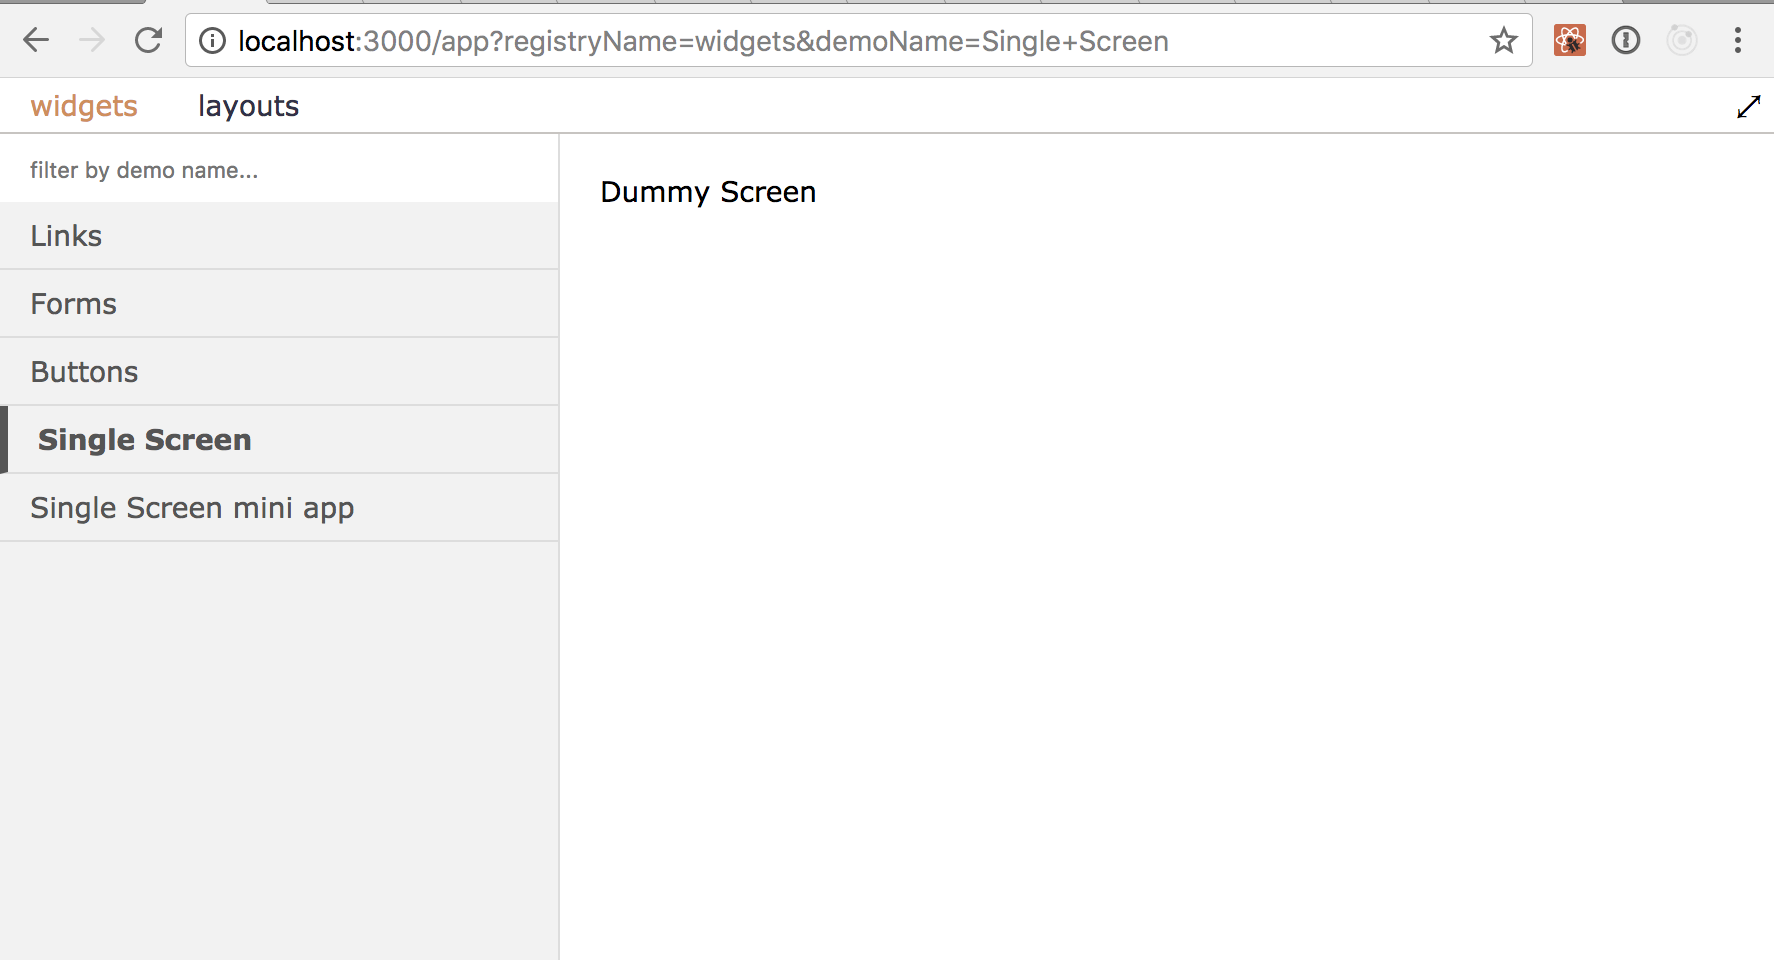
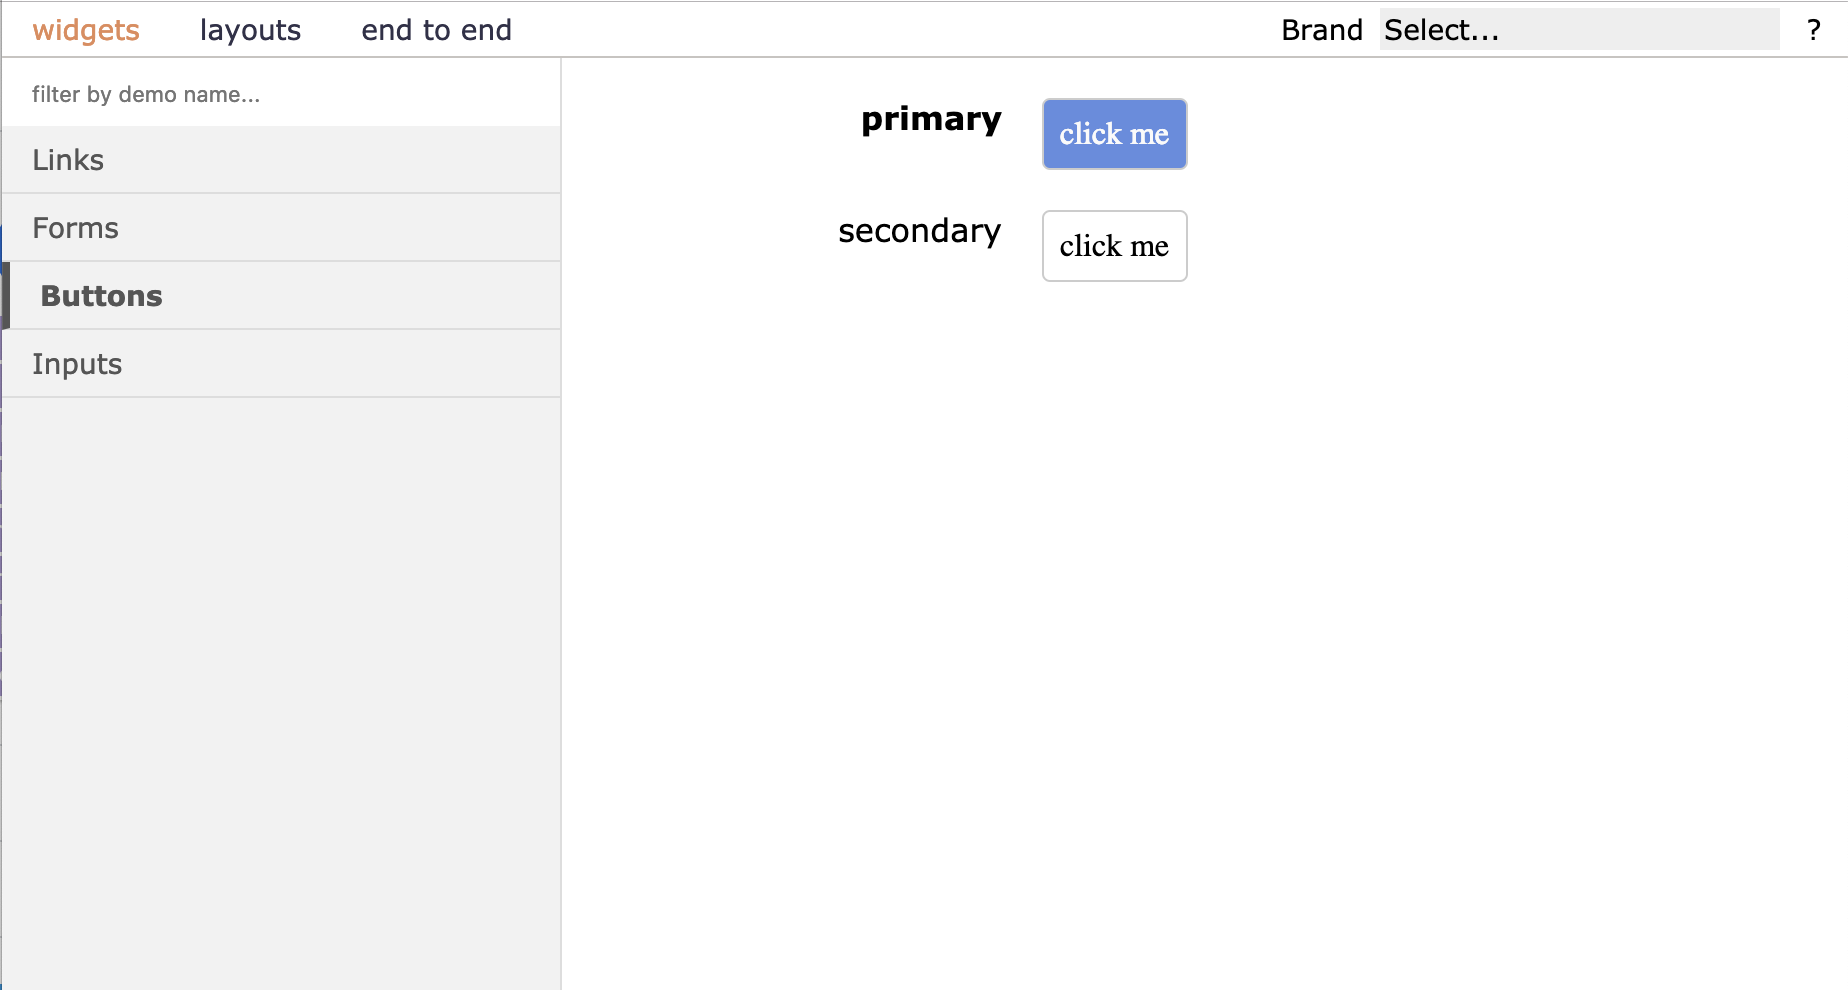
update readme screenshot and examples

diff --git a/src/App.tsx b/src/App.tsx
@@ -16,20 +16,22 @@ widgets
     .registerAsGrid('Links', 300, linksDemo)
     .registerAsTwoColumnTable('Forms', formsDemo)
     .registerAsTwoColumnTable('Buttons', buttonsDemo)
-    .registerAsRows('Inputs', inputsDemo)
-    .registerAsTabs('Long Content', longContentDemo)
-    .registerSingle('Single Screen', profileScreenDemo)
-    .registerAsMiniApp('Single Screen mini app', '/app', profileScreenDemo);
+    .registerAsRows('Inputs', inputsDemo);
 
 const layouts = new Registry('layouts');
 layouts
     .registerSingle('Side by Side', sideBySideDemo);
 
+const endToEnd = new Registry('end to end');
+endToEnd.registerAsTabs('Long Content', longContentDemo)
+    .registerSingle('Single Screen', profileScreenDemo)
+    .registerAsMiniApp('Single Screen mini app', '/app', profileScreenDemo);
+
 export class App extends React.Component {
     render() {
         return (
             <ComponentViewer
-                registries={[widgets, layouts]}
+                registries={[widgets, layouts, endToEnd]}
                 dropDown={{
                     label: 'Brand',
                     items: [

diff --git a/src/demos/buttons.tsx b/src/demos/buttons.tsx
@@ -9,16 +9,8 @@ function onClick() {
 
 export function buttonsDemo(registry: Registry) {
     registry
-        .description(`primary buttons are used to define the main action`)
-        .add('enabled', () => <Button label="click me" onClick={onClick}/>,
+        .add('primary', () => <Button primary label="click me" onClick={onClick}/>,
              `long description
              multiline markdown`)
-        .add('disabled', () => <Button label="click me" onClick={onClick}/>)
-        .description(`
-        secondary buttons are for extra information and miscellaneous actions
-        `)
-        .add('enabled 2', () => <Button label="click me" onClick={onClick}/>,
-             `long description
-             multiline markdown`)
-        .add('disabled 2', () => <Button label="click me" onClick={onClick}/>);
+        .add('secondary', () => <Button label="click me" onClick={onClick}/>);
 }

diff --git a/src/demo-components/Button.tsx b/src/demo-components/Button.tsx
@@ -3,13 +3,16 @@ import * as React from 'react';
 import './Button.css';
 
 export interface Props {
+    primary?: boolean;
     label: string;
     onClick: () => void;
 }
 
-export function Button({label, onClick}: Props) {
+export function Button({label, primary, onClick}: Props) {
+    const className = 'button' + (primary ? ' primary' : '');
+
     return (
-        <div className="button" onClick={onClick}>
+        <div className={className} onClick={onClick}>
             {label}
         </div>
     );

diff --git a/src/demo-components/Button.css b/src/demo-components/Button.css
@@ -1,4 +1,10 @@
 .button {
     padding: 8px;
     border: 1px solid #ccc;
+    border-radius: 4px;
+}
+
+.button.primary {
+    background-color: #618be1;
+    color: #fafafa;
 }

diff --git a/README.md b/README.md
@@ -1,3 +1,13 @@
+# Intro
+
+![screen example](documentation/rcv/static/screen-example.png)
+
+React Component to help with development of other react components.
+* Just a component, no build system: works with your setup seamlessly.
+* See your components at once in the different states.
+* Zoom-in into a single component for debug.
+* User defined theme switching for multi brand/theme development. 
+
 # Installation
 
 ```
@@ -5,9 +15,6 @@ npm install react-component-viewer --save-dev
 ```
 
 # React Component Viewer
-
-Is a React component to preview and develop your components.
-Use it in your CRA created app as a demo app.
 
 ```typescript 
 import * as React from 'react';
@@ -25,23 +32,33 @@ widgets
     .registerAsGrid('Links', 300, linksDemo)
     .registerAsTwoColumnTable('Forms', formsDemo)
     .registerAsTwoColumnTable('Buttons', buttonsDemo)
-    .registerSingle('Single Screen', profileScreenDemo)
-    .registerAsMiniApp('Single Screen mini app', '/app', profileScreenDemo);
+    .registerAsRows('Inputs', inputsDemo);
 
 const layouts = new Registry('layouts');
-layouts
-    .registerSingle('Side by Side', sideBySideDemo);
+const endToEnd = new Registry('end to end');
 
-export function App() {
-    return (
-        <ComponentViewer registries={[widgets, layouts]}/>
-    );
+export class App extends React.Component {
+    render() {
+        return (
+            <ComponentViewer
+                registries={[widgets, layouts, endToEnd]}
+                dropDown={{
+                    label: 'Brand',
+                    items: [
+                        {label: 'Brand-A', hotKey: 'Alt 1'},
+                        {label: 'B-Brand', hotKey: 'Alt 2'}
+                    ],
+                    onSelect: this.onBrandSelect
+                }}
+            />
+        );
+    }
+
+    private onBrandSelect(brand: string) {
+        // ...
+    }
 }
 ```
-
-It will work with your build system, the language of your choice and style processing.
-
-![screen example](documentation/rcv/static/screen-example.png)
 
 # Demo functions
 
@@ -50,10 +67,10 @@ Demo must be defined in a function that accepts `Registry`. Function should regi
 ```typescript
 export function buttonsDemo(registry: Registry) {
     registry
-        .add('enabled', () => <Button label="click me" onClick={onClick}/>,
+        .add('primary', () => <Button primary label="click me" onClick={onClick}/>,
              `long description
              multiline markdown`)
-        .add('disabled', () => <Button label="click me" enabled={false} onClick={onClick}/>)
+        .add('secondary', () => <Button label="click me" onClick={onClick}/>);
 }
 ``` 
 
